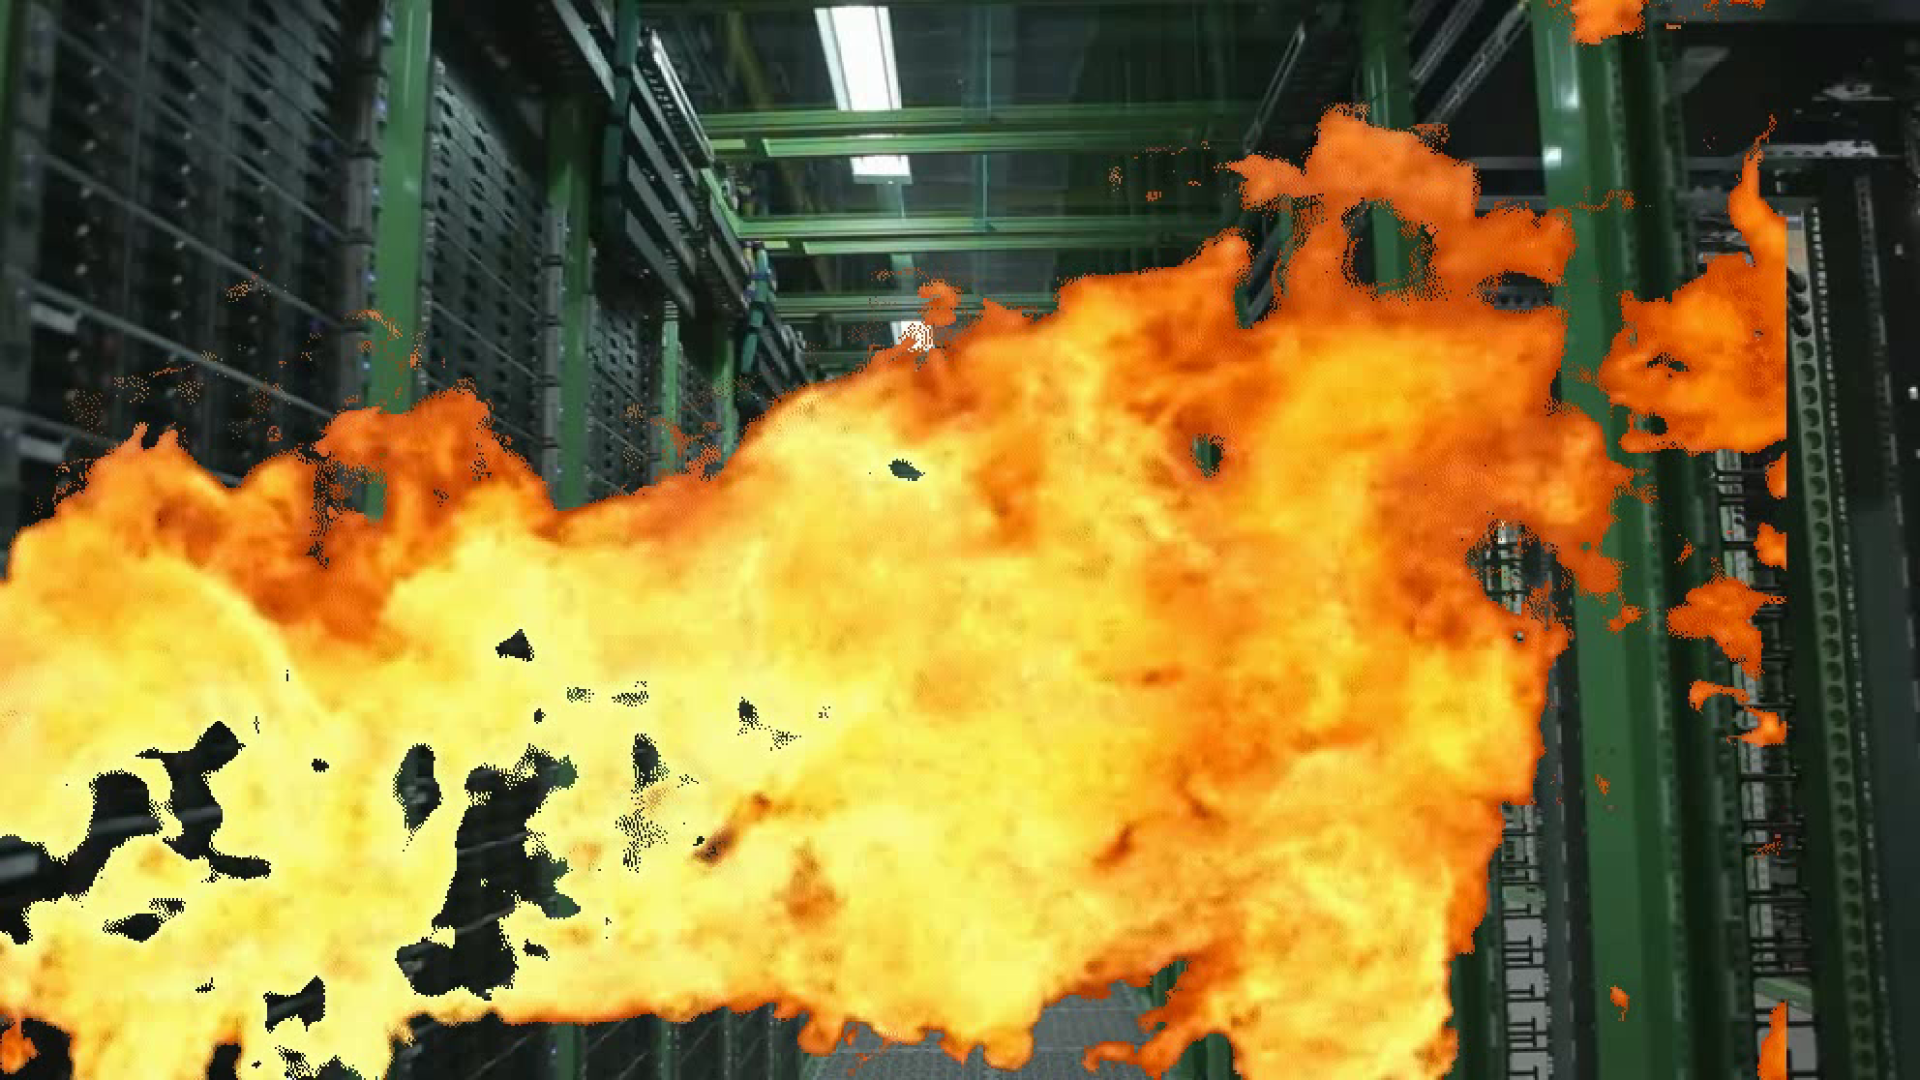
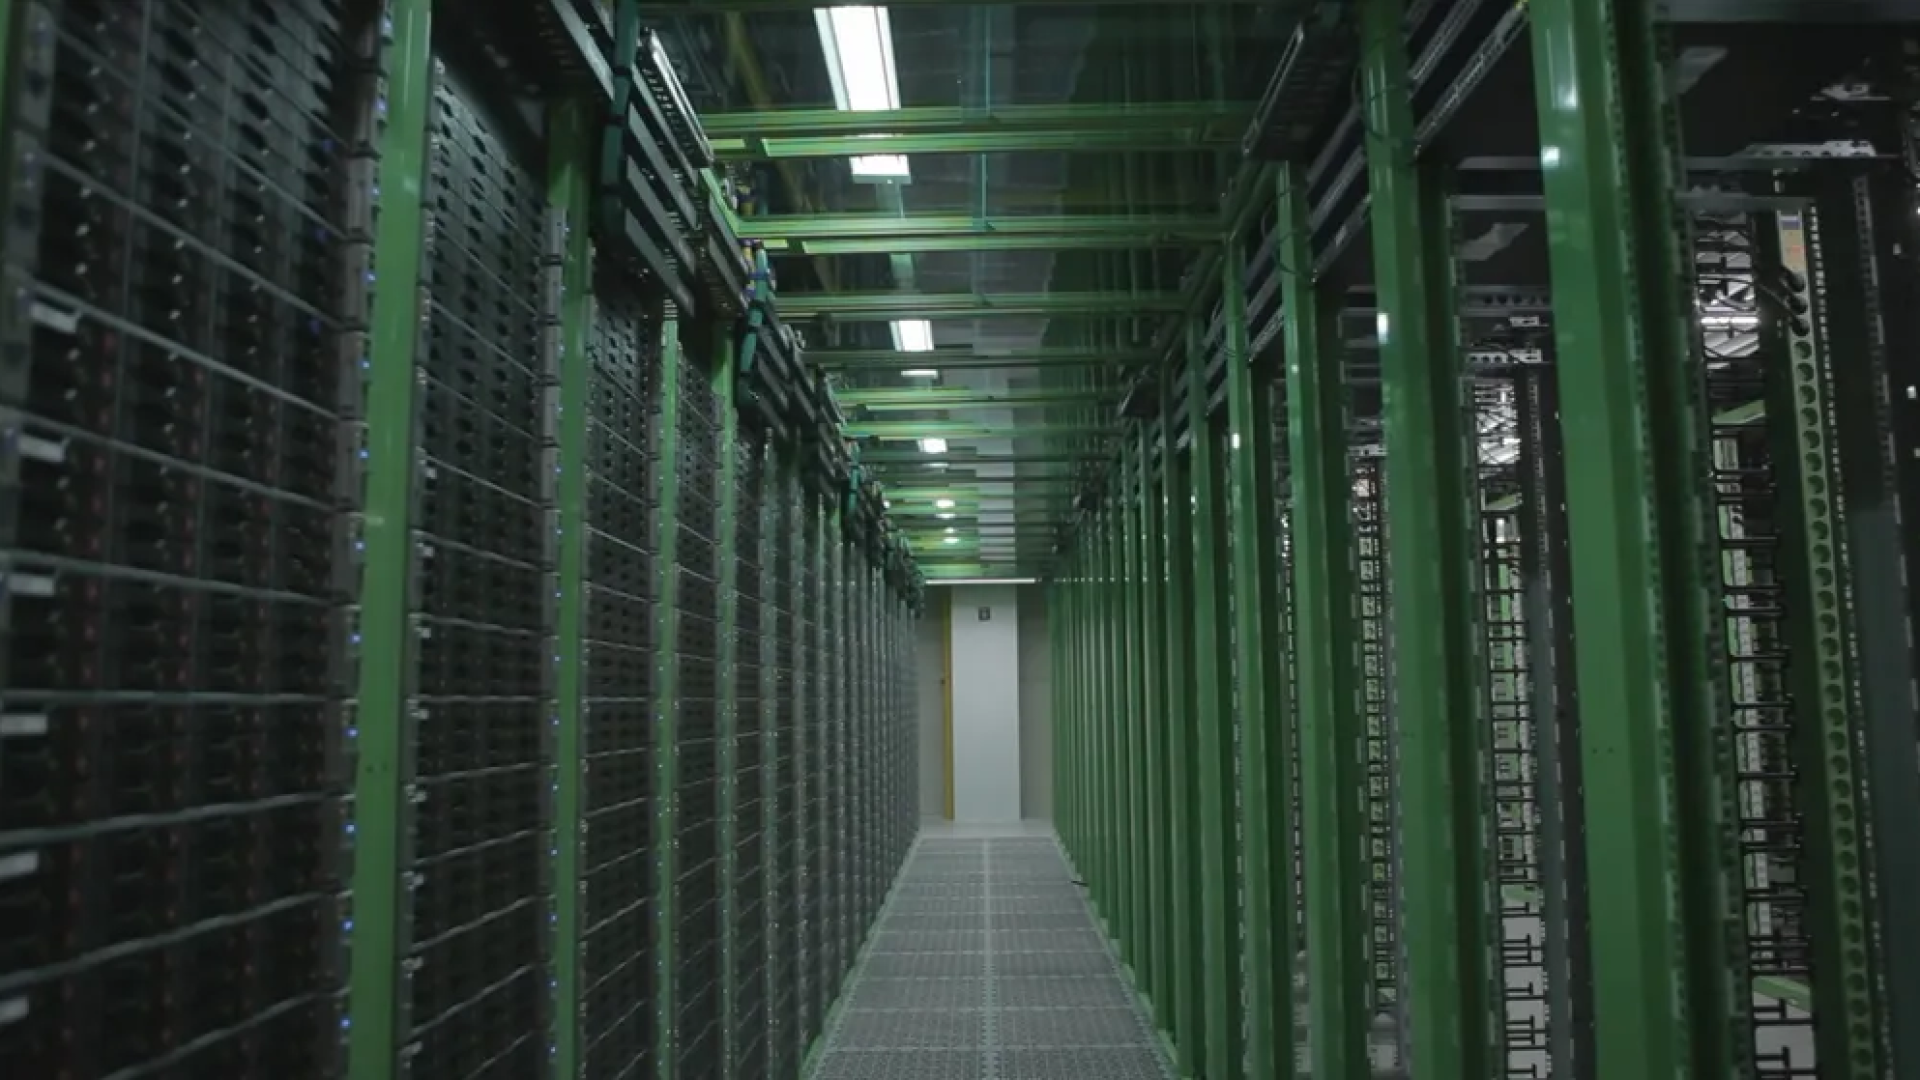
first finish action

diff --git a/src/for_git/test_finish.py b/src/for_git/test_finish.py
@@ -1,0 +1,132 @@
+import cv2
+import numpy as np
+import asyncio
+import platform
+import time
+import threading
+
+import rclpy
+from rclpy.node import Node
+from std_msgs.msg import Bool
+
+# 파일 경로
+VIDEO1_PATH = "output_fire.mp4"
+IMAGE2_PATH = "datacenter.png"
+OUTPUT_PATH = "output_frame.png"
+
+# 전역 변수로 모드 관리
+current_mode = 2
+auto_switched = False
+action_finish_received = False
+
+# ROS2 노드 클래스 정의
+class ActionFinishSubscriber(Node):
+    def __init__(self):
+        super().__init__('action_finish_listener')
+        self.subscription = self.create_subscription(
+            Bool,
+            'action_finish',
+            self.listener_callback,
+            10
+        )
+        self.subscription  # prevent unused variable warning
+
+    def listener_callback(self, msg):
+        global current_mode, action_finish_received
+        if msg.data:
+            self.get_logger().info('Received action_finish=True. Switching to datacenter image.')
+            current_mode = 2
+            action_finish_received = True
+
+# ROS2 노드 실행 함수 (백그라운드)
+def run_ros2_node():
+    rclpy.init()
+    node = ActionFinishSubscriber()
+    rclpy.spin(node)
+    node.destroy_node()
+    rclpy.shutdown()
+
+# 메인 OpenCV 루프
+async def main():
+    global current_mode, auto_switched, action_finish_received
+
+    cap1 = cv2.VideoCapture(VIDEO1_PATH)
+    img2 = cv2.imread(IMAGE2_PATH)
+
+    if not cap1.isOpened():
+        print("Error: Could not open video file.")
+        return
+    if img2 is None:
+        print("Error: Could not open image file.")
+        return
+
+    start_time = time.time()
+
+    if platform.system() != "Emscripten":
+        screen_width, screen_height = 1920, 1080
+        try:
+            import pyautogui
+            screen_width, screen_height = pyautogui.size()
+        except ImportError:
+            print("PyAutoGUI not installed, using default 1920x1080")
+
+        cv2.namedWindow("Video Player", cv2.WND_PROP_FULLSCREEN)
+        cv2.setWindowProperty("Video Player", cv2.WND_PROP_FULLSCREEN, cv2.WINDOW_FULLSCREEN)
+
+    FPS = 30
+
+    while True:
+        elapsed = time.time() - start_time
+
+        # 10초 후 자동 전환
+        if elapsed > 10 and not auto_switched:
+            current_mode = 1
+            cap1.set(cv2.CAP_PROP_POS_FRAMES, 0)
+            auto_switched = True
+            print("Auto-switched to fire video after 10 seconds")
+
+        if current_mode == 1:
+            ret, frame = cap1.read()
+            if not ret:
+                cap1.set(cv2.CAP_PROP_POS_FRAMES, 0)
+                ret, frame = cap1.read()
+        else:
+            frame = img2.copy()
+
+        if platform.system() != "Emscripten":
+            frame = cv2.resize(frame, (screen_width, screen_height), interpolation=cv2.INTER_AREA)
+            cv2.imshow("Video Player", frame)
+
+        cv2.imwrite(OUTPUT_PATH, frame)
+
+        key = -1
+        if platform.system() != "Emscripten":
+            key = cv2.waitKey(1) & 0xFF
+
+        if key == ord('1'):
+            if current_mode != 1:
+                current_mode = 1
+                cap1.set(cv2.CAP_PROP_POS_FRAMES, 0)
+                print("Manually switched to fire video")
+        elif key == ord('2'):
+            if current_mode != 2:
+                current_mode = 2
+                print("Manually switched to datacenter image")
+        elif key == ord('q'):
+            break
+
+        await asyncio.sleep(1.0 / FPS)
+
+    cap1.release()
+    if platform.system() != "Emscripten":
+        cv2.destroyAllWindows()
+
+# 메인 실행
+if platform.system() != "Emscripten":
+    if __name__ == "__main__":
+        # ROS2 노드를 별도 스레드로 실행
+        ros_thread = threading.Thread(target=run_ros2_node, daemon=True)
+        ros_thread.start()
+
+        # OpenCV 이벤트 루프 실행
+        asyncio.run(main())
